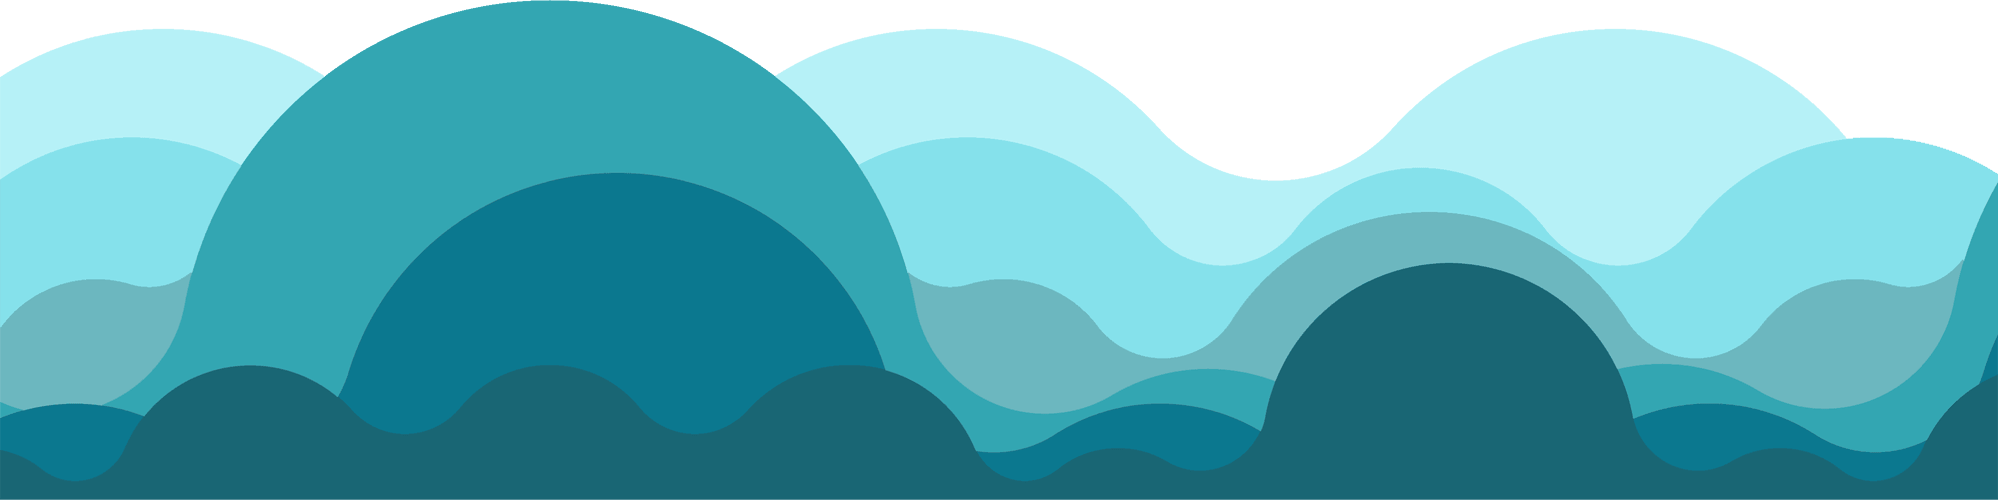
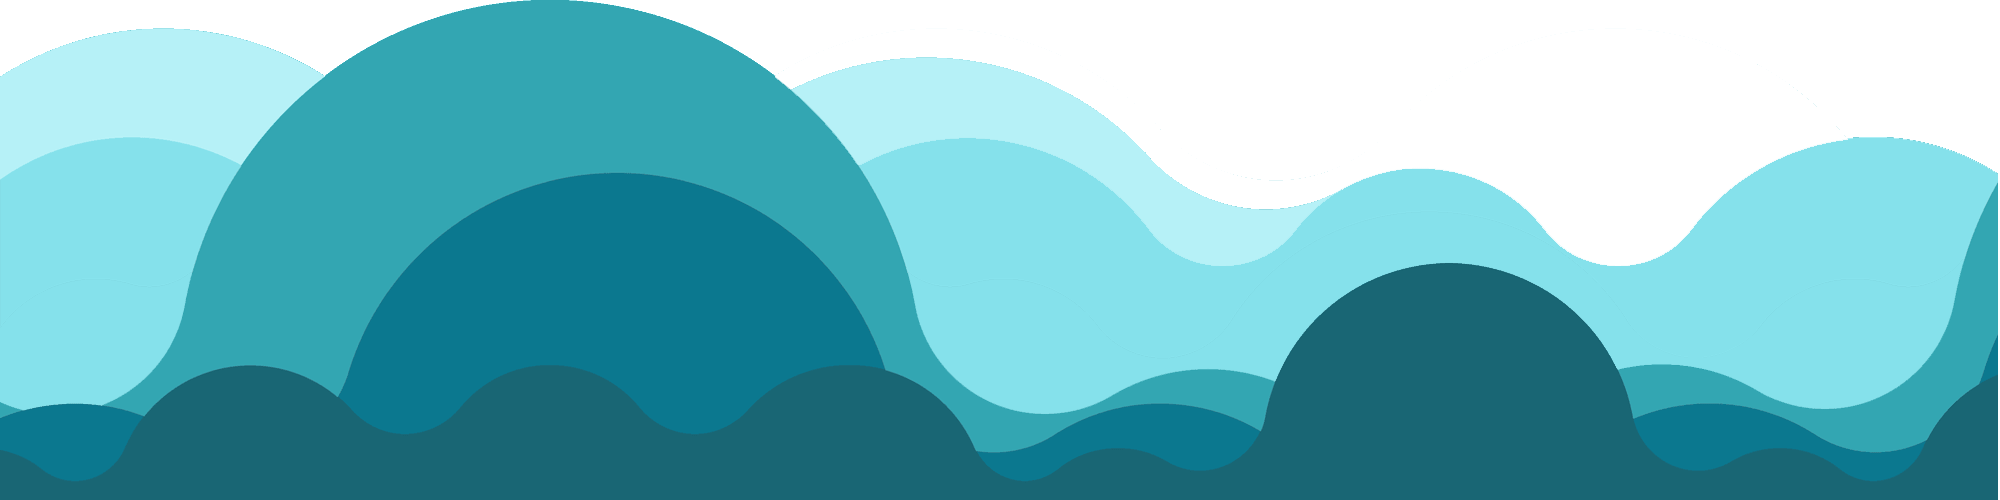
Replaced splash screen

Changed region(s): [[0.372, 0.06, 0.992, 0.84], [0.0, 0.99, 1.0, 1.0], [0.0, 0.54, 0.093, 0.84]]

diff --git a/index.html b/index.html
@@ -63,7 +63,8 @@
 							<li><a href="#working">How it works</a></li>
 							<li><a href="#faq">FAQ</a></li>
 							<li><a href="#ideology">Ideology</a></li>
-							<li><a href="#contact">Contact</a></li>
+							<li><a href="#subscribe">Subscribe</a></li>
+							<li><a href="mailto:getedvice@gmail.com?subject=Tell%20me%20more%20about%20Edvice">Contact</a></li>
 						</ul>
 					</div>
 					<!-- End Navigation  -->
@@ -91,8 +92,8 @@
 					</div>
 					<!-- End Header Text -->
 					<!-- Start Banner Optin Form-->
-					<div class="col-lg-5 col-md-5 col-sm-5">
-						<img src="img/inclined.png" class="banner-image">
+					<div class="col-lg-4 col-md-4 col-md-offset-1 col-sm-5">
+						<img src="img/splash.png" class="banner-image">
 					</div>
 					<!-- End Banner Optin Form -->
 				</div>
@@ -333,7 +334,7 @@
 	<!-- End Section -->
 		
 	<!-- Subscribe section -->
-	<section id="contact" class="section bg-waves">
+	<section id="subscribe" class="section bg-waves">
 		<div class="container section-push-down">
 			<div class="row">
 				<div class="col-lg-12 text-center white-text">
@@ -348,16 +349,36 @@
 	</section>
 	<!-- End Section -->
 	
-	<!-- Footer Bottom -->
+	<!--
+	<footer class="footer footer-top">
+	<div class="container">
+			<div class="row">
+				<div class="col-lg-12 col-sm-12 white-text">
+					<div class="headline"><h2>Contact Us</h2></div>
+				</div>
+			
+			</div>
+	</div>
+	
+	</footer> -->
+	
+	
+	
+	
+	
 	<footer class="footer footer-sub">
 		<div class="container">
 			<div class="row">
-				<div class="col-lg-12 col-sm-12">
-					<p>&copy; Edvice. All Rights Reserved</p>
+				<div class="col-lg-6 col-sm-6">
+					<p class="footer-left">&copy; Edvice. All Rights Reserved</p>
 				</div>
-				<!-- <div class="col-lg-6 col-sm-6">
-					 <p class="copyright">Made with <i class="icon-heart"></i> by <a href="">Edvice</a></p>
-				</div> -->
+				<div class="col-lg-6 col-sm-6">
+					 <p class="copyright">
+						<a href=""><img class="social-icons" src="img/facebook.svg"></a>
+						<a href=""><img class="social-icons" src="img/twitter.svg"></a>
+						<!-- <a href=""><img class="social-icons" src="img/youtube.svg"></a> -->
+					 </p>
+				</div>
 			</div>
 		</div>
 	</footer>

diff --git a/css/style.css b/css/style.css
@@ -423,12 +423,13 @@ faq-bodys
 /* ==========================================================================
 Footer
  ========================================================================== */
-.footer-top {background-color: #2b2b2b; padding: 70px 0;}
+.footer-top {background-color: #196674; padding: 70px 0;}
 .footer-sub {background-color: #196674; padding: 30px 0;}
 
 .footer h3 {color: #FFF; font-weight: bold; font-size: 19px; margin-bottom:15px;}
 .footer p,
 .footer a {color: #ADADAD; margin-bottom: 10px;}
+.footer a {display:inline-block;}
 .footer li {padding: 3px 0; font-size: 14px;}
 .footer i {color: #f8f8f8;}
 
@@ -553,13 +554,18 @@ Media Queries
 	.img-thumbnail {margin: 0;}
 	.testimonial-inner img {float: none; margin:0 auto; margin-bottom: 20px;}
 	.contact-list, .quick-links {margin-bottom: 30px;}
-	.copyright {float: none;}
+	.copyright {float: none; text-align:center;}
+	.footer-left{text-align:center !important;}
 	.space{margin-top:-30px !important;margin-bottom:0px !important;}
 	.space p{text-align:center !important;}
 	.features-list{text-align:center;}
 	.features-list-left{text-align:center !important;}
 	.features-list-item {margin: 30px 0px !important;}
 	#tutor h2, #student h2{text-align:center !important;}
+	
+	.banner-content img{
+		margin-top:30px;
+	}
 	
 	.plane-icon {
 		margin-top:8px !important;
@@ -600,7 +606,7 @@ Media Queries
 .features-img img{margin-bottom:0px;}
 
 .banner-image{
-	max-width:100%; margin-top:30px;margin-bottom:30px;
+	/*max-width:65%; /*margin-top:30px;*/margin-bottom:30px;
 	-webkit-filter: drop-shadow(0px 0px 50px #32686f);
 	filter:         drop-shadow(0px 0px 50px #32686f);
 }
@@ -746,7 +752,7 @@ vertical-align: middle;
 
 
 footer p{
-	text-align:center;
+	/*text-align:center;*/
 }
 
 .header-sub{
@@ -1029,4 +1035,13 @@ footer p{
 .feature_img{
     margin-left: auto;
     margin-right: auto;
+}
+
+.social-icons{
+	background:#33A6B2;
+	transtition:all 0.5s ease-in-out;
+}
+
+.social-icons:hover{
+	opacity:0.5;
 }
